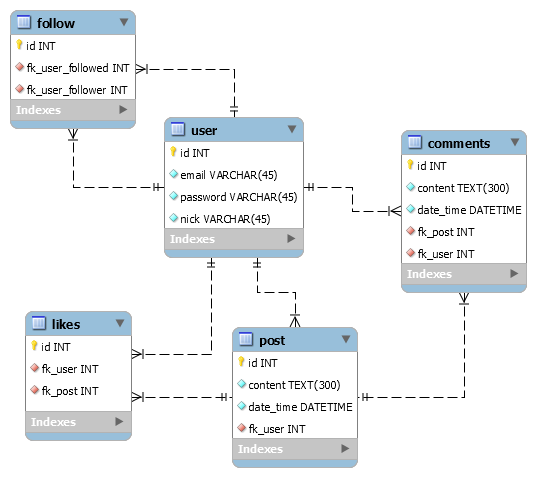
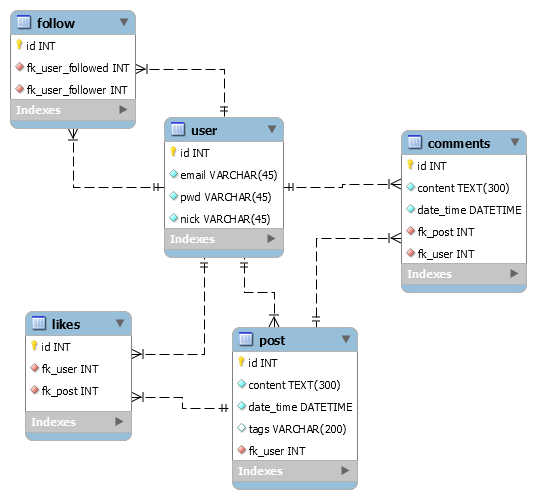
add backend sign up

diff --git a/src/routes/user.js b/src/routes/user.js
@@ -1,0 +1,82 @@
+// dependencias
+let express = require('express');
+let router = express.Router();
+let sequelize = require('../models').sequelize;
+
+let env = process.env.NODE_ENV || 'development';
+
+// cria novo usuário no bando de dados
+router.post('/createUser', (req, res, next) => {
+	
+	// req params
+	nick = req.body.nick;
+	email = req.body.email;
+	pwd = req.body.pwd;
+
+	// checking if arguments are missing
+	if (nick !== undefined && email !== undefined && pwd !== undefined) {
+
+		// inserting user on database
+		const sql = `INSERT INTO user(nick, email, pwd) VALUES ('${nick}', '${email}', MD5('${pwd}'));`;
+
+		sequelize.query(sql, {
+			type: sequelize.QueryTypes.INSERT
+		}).then(function(result) {
+			// success response
+			res.json({
+				"status": "ok",
+				"msg": `user ${result[0]} inserted`
+			})
+
+		}).catch(function (err) {
+			// fail response
+			res.json({
+				"status": "error",
+				"msg": err.errors[0].message,
+				"error": err
+			})
+		});
+
+	} else {
+		// missing fields response
+		res.json({
+			"status": "error",
+			"msg": "missing fields"
+		});
+	}
+
+})
+
+// exemplo de rota
+router.get('/testRoute', function(req, res, next) {
+
+    // exemplo de resposta em json
+    let obj = {
+        nome: "Bikolas",
+        sobrenome: "Narcha",
+        idade: 320
+    }
+    
+    res.json(obj)
+
+    // exemplo de consulta no banco
+    // let sql = "";
+
+	// if (env == "dev") {
+	// 	sql = "SELECT * FROM table;";
+	// } else {
+    //     sql = "";
+    // }
+
+	// sequelize.query(instrucaoSql, {
+	// 	type: sequelize.QueryTypes.SELECT
+	// })
+	// .then(resultado => {
+	// 	res.json(resultado);
+	// }).catch(erro => {
+	// 	console.error(erro);
+	// 	res.status(500).send(erro.message);
+	// })
+})
+
+module.exports = router;

diff --git a/src/config/config.js b/src/config/config.js
@@ -8,11 +8,11 @@ module.exports = {
         host: 'host',
         dialect: 'mssql',
         xuse_env_variable: 'DATABASE_URL',
-        dialectOptions: {
-            options: {
-                encrypt: true
-            }
-        },
+        // dialectOptions: {
+        //     options: {
+        //         encrypt: true
+        //     }
+        // },
         pool: {
             max: 5,
             min: 1,
@@ -23,17 +23,17 @@ module.exports = {
     
     // dev / banco local
     dev: {
-        username: 'username',
-        password: 'password',
-        database: 'database',
+        username: 'followappuser',
+        password: 'urubu100',
+        database: 'followapp',
         host: 'localhost',
         dialect: 'mysql',
         xuse_env_variable: 'DATABASE_URL',
-        dialectOptions: {
-            options: {
-                encrypt: true
-            }
-        },
+        // dialectOptions: {
+        //     options: {
+        //         encrypt: true
+        //     }
+        // },
         pool: {
             max: 5,
             min: 1,

diff --git a/src/server.js b/src/server.js
@@ -9,6 +9,7 @@ let logger = require('morgan');
 
 // rotas
 let indexRouter = require('./routes/index');
+let indexUser = require('./routes/user');
 
 let app = express();
 
@@ -21,5 +22,6 @@ app.use(express.static(path.join(__dirname, 'public')));
 
 // iniciando rotas
 app.use('/', indexRouter);
+app.use('/user', indexUser);
 
 module.exports = app;
